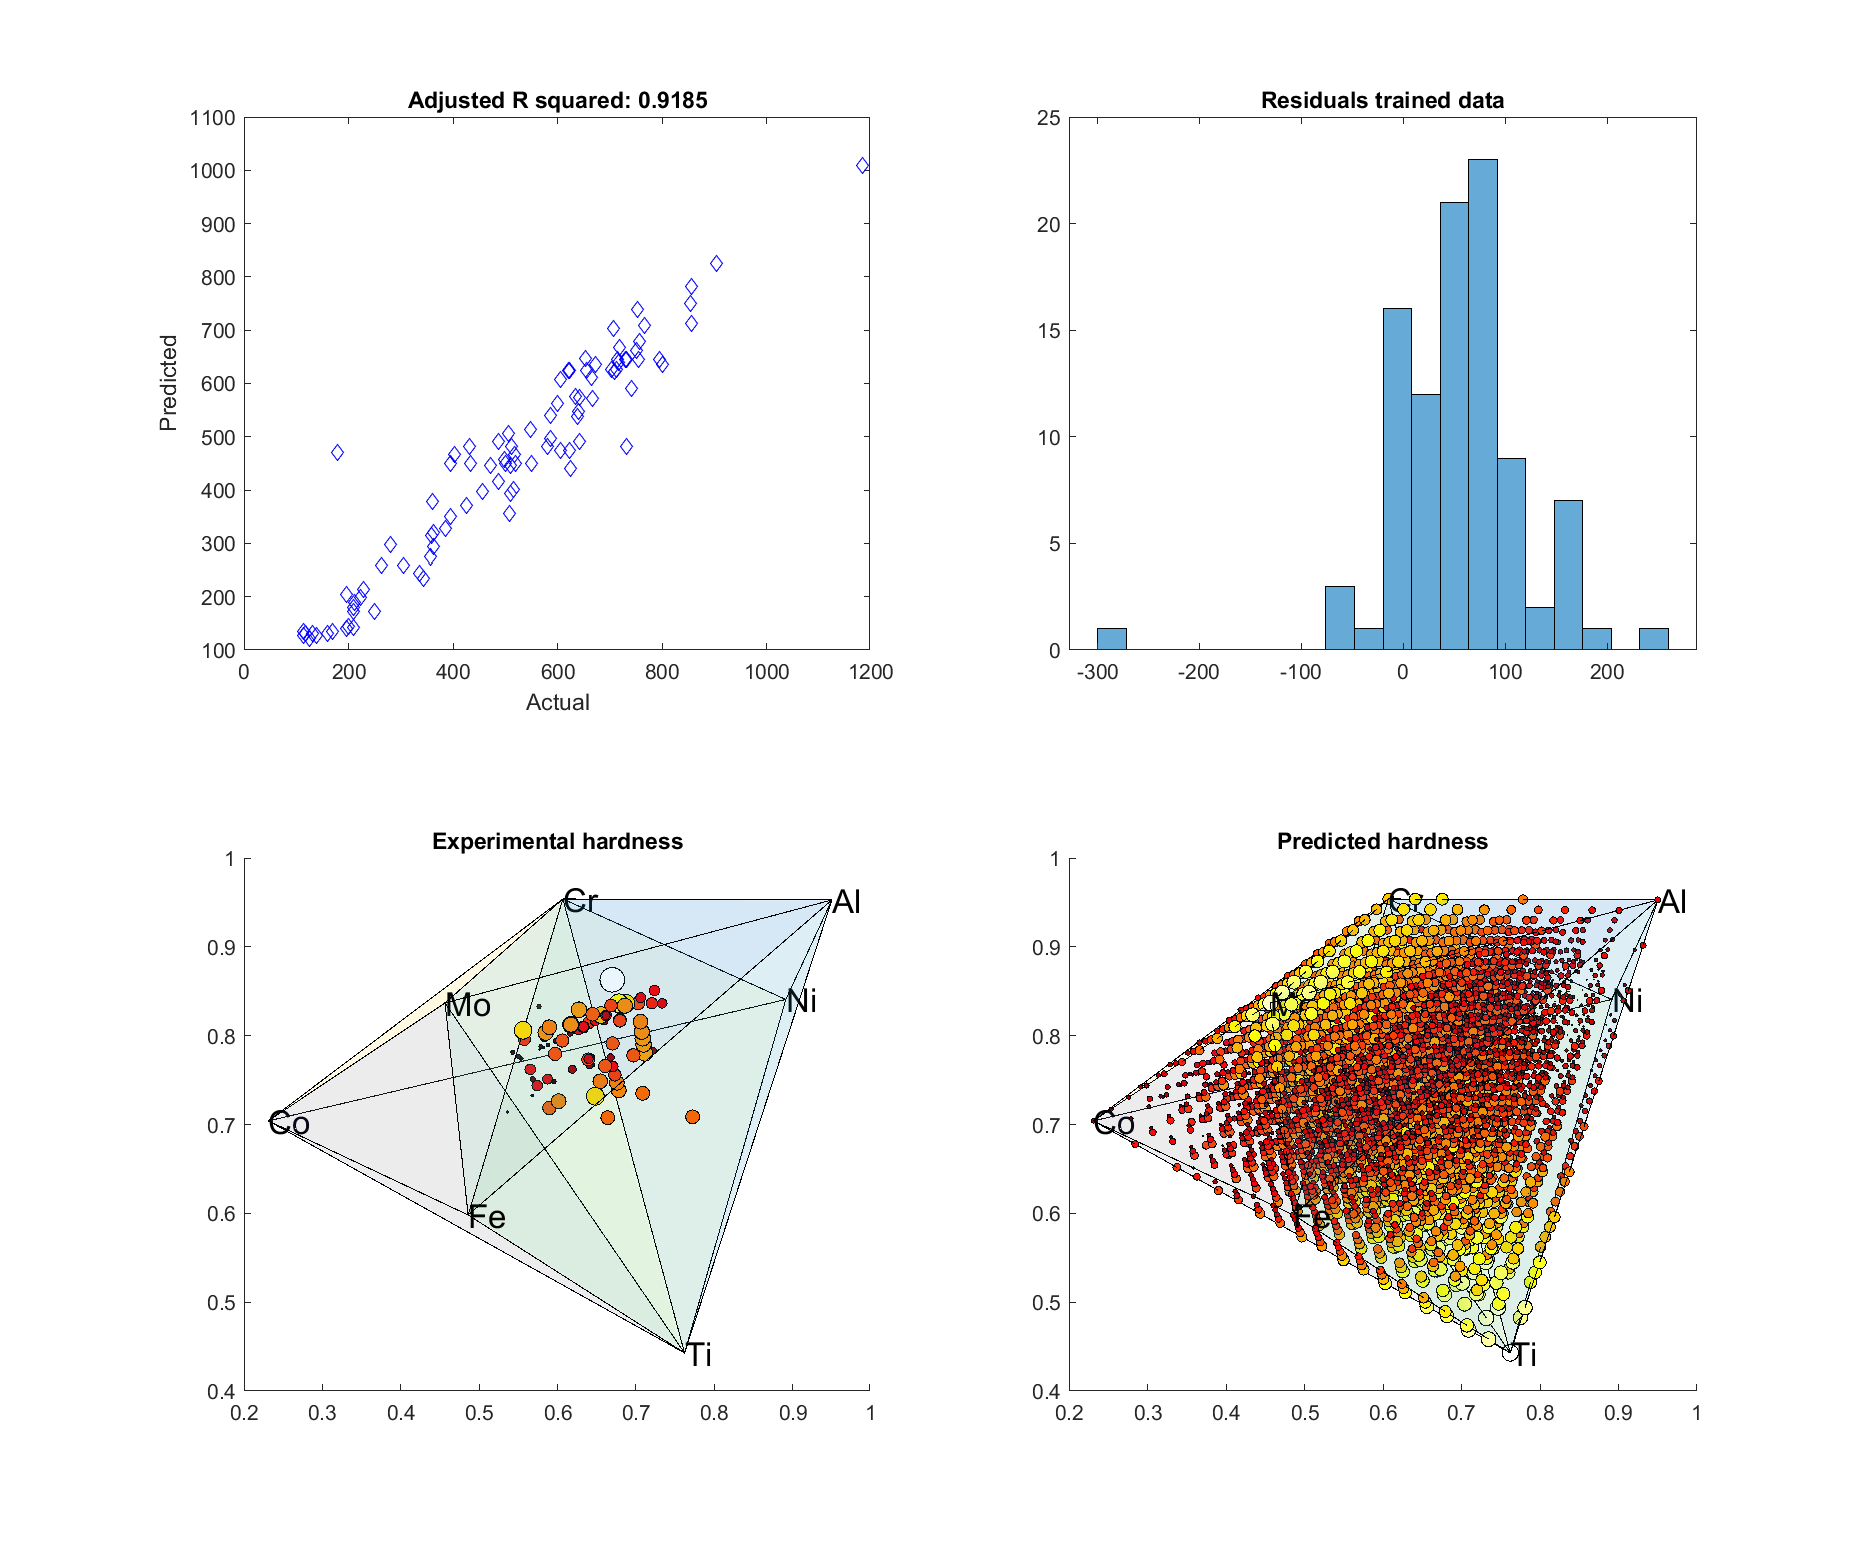
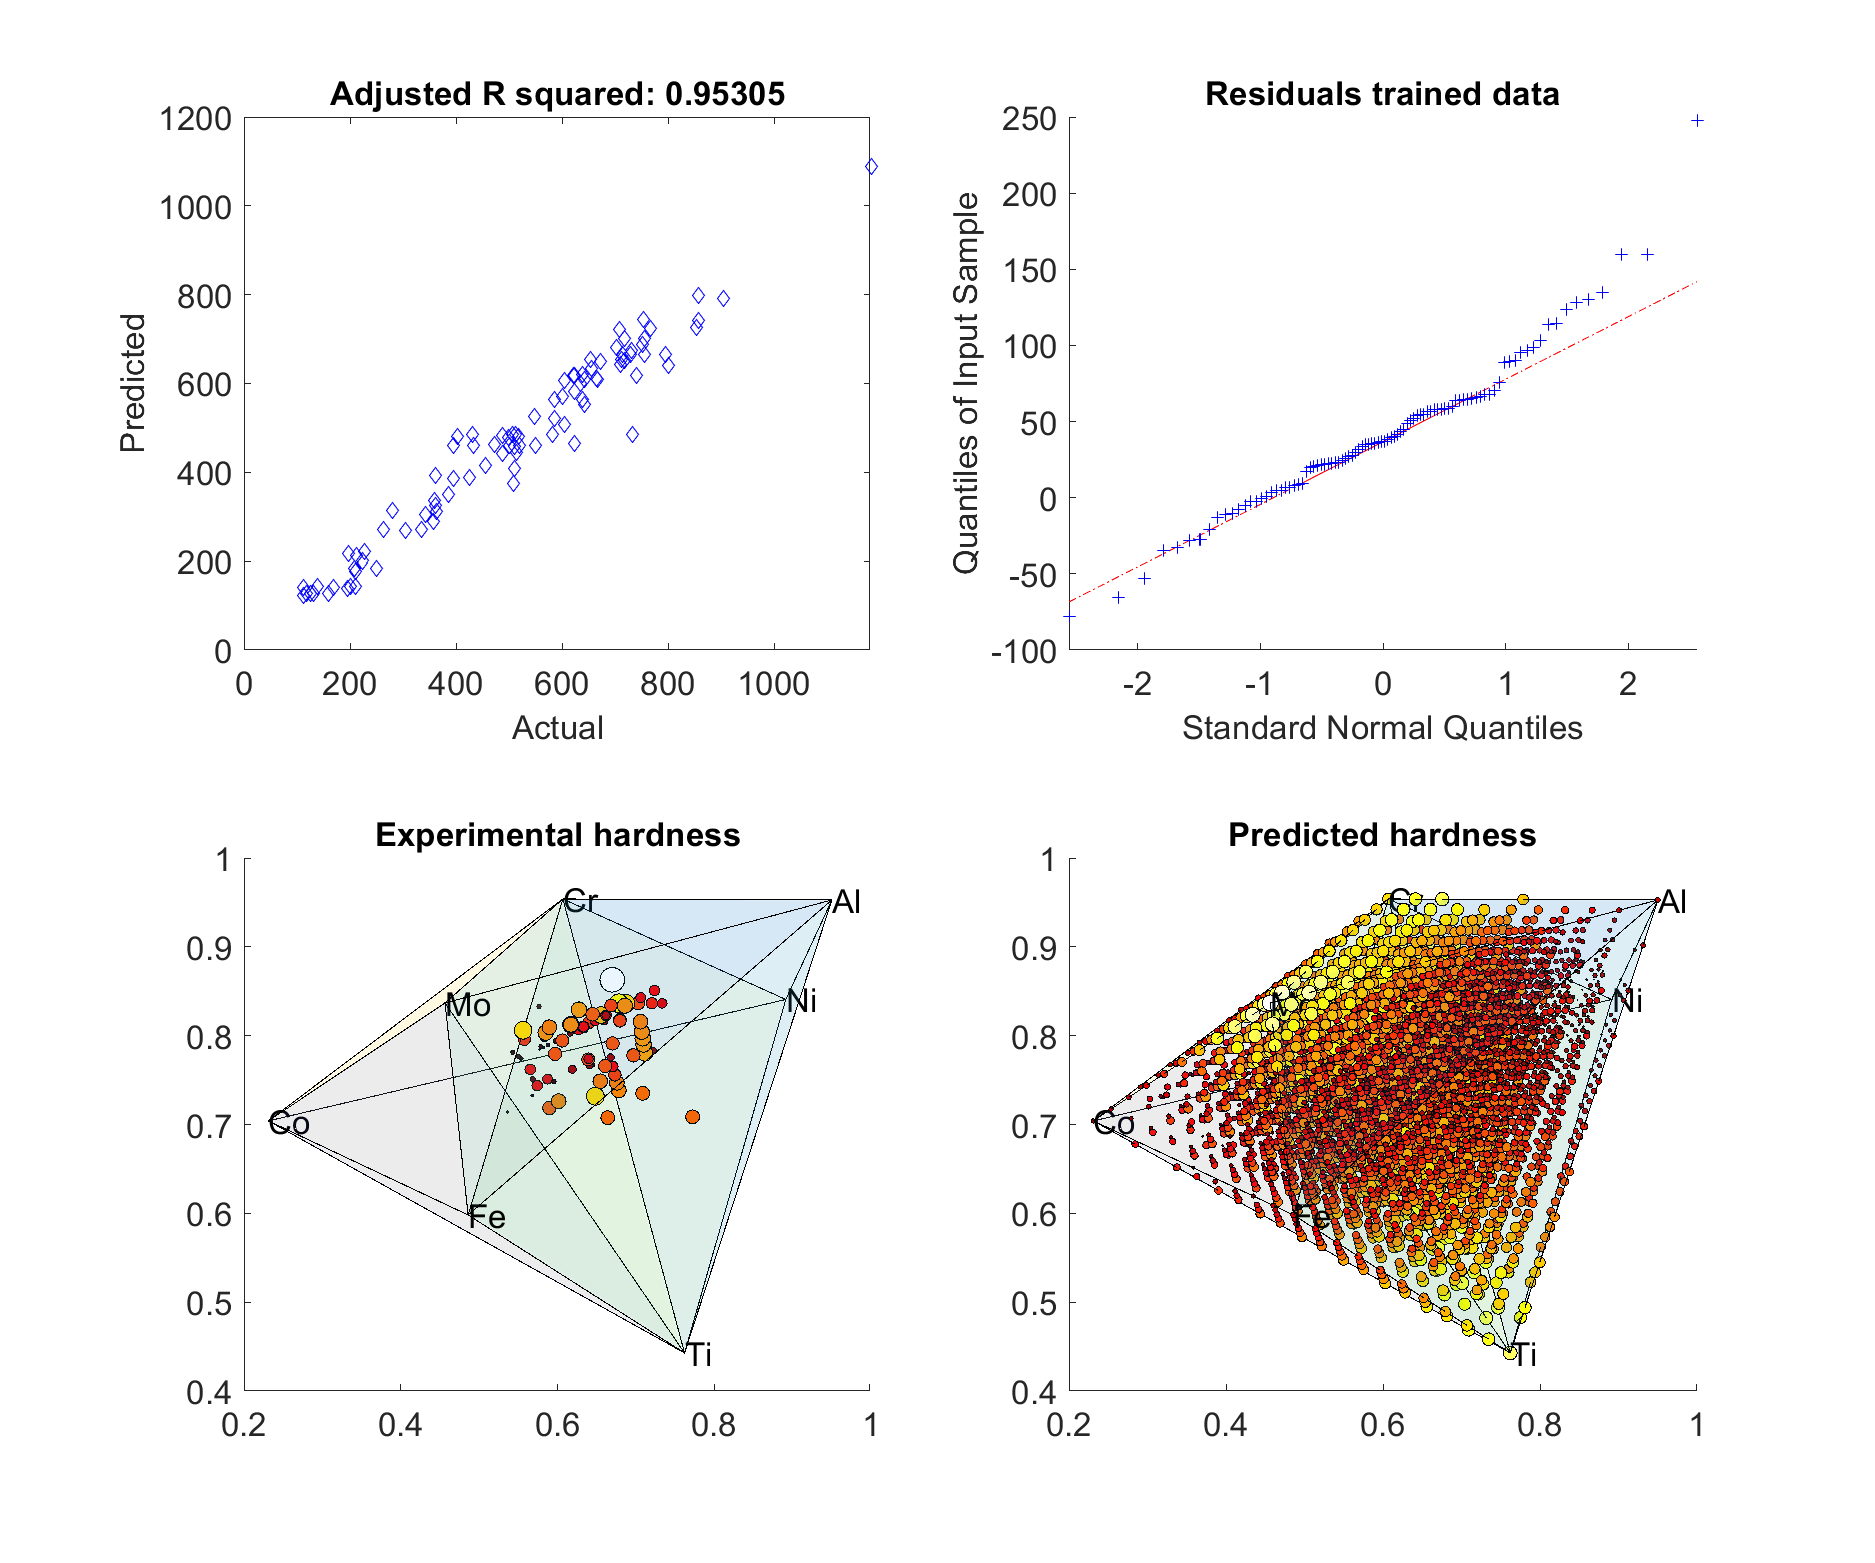
Add files via upload

diff --git a/Minimal_Neural_Network_Multinary.m b/Minimal_Neural_Network_Multinary.m
@@ -7,10 +7,10 @@ nb_elements=7;
 compo_variation=0.1; %for predicted data
 
 %% Options for training
-nbtraining = 50; %number of batches for training with k folding
+nbtraining = 10; %number of batches for training with k folding
 nbkfold = 16;    %number of k folding = number of processors used in parallel
-neurons_per_hidden_layer = 500;
-options.Epochs = 750;
+neurons_per_hidden_layer = 300; %the more the better but the higher the risk of overfitting, so the k-folding
+options.Epochs = 1000; %Epochs are enough when fitting does not depends on this variable anymore
 
 name_elements=["Al","Co","Cr","Fe","Ni","Ti","Mo"];
 name_elements_array = {'Al','Co','Cr','Fe','Ni','Ti','Mo'};
@@ -26,8 +26,8 @@ Training=data.HV;             %data to fit, this one is formatted differently in
 
 layers= [
     featureInputLayer(nb_elements); % number of descriptors
-    fullyConnectedLayer(neurons_per_hidden_layer)
-    reluLayer()
+    fullyConnectedLayer(neurons_per_hidden_layer) %can be different for each layers as well as the deepness
+    reluLayer() %looks like the best type of layer for this problem
     fullyConnectedLayer(neurons_per_hidden_layer)
     reluLayer()
     fullyConnectedLayer(neurons_per_hidden_layer)
@@ -42,18 +42,12 @@ options.Save_yytest = true;
 options.Seed = 123;
 rng(options.Seed);
 
-% options = trainingOptions('rmsprop', ...
-%     'MaxEpochs', options.Epochs, ...
-%     'Verbose', false,...
-%     'Plots', 'training-progress');
-
 options = trainingOptions('rmsprop', ...
     'MaxEpochs', options.Epochs, ...
-    'Verbose', false, 'ExecutionEnvironment','auto')
+    'Verbose', false, 'ExecutionEnvironment','auto');
 
 best_rmse = 1e9;
 best_adj = 0;
-best_net = [];
 history_RMSE=[];
 history_adjrsquare=[];
 best_net=[];
@@ -77,8 +71,8 @@ for i=1:1:nbtraining
         nets{fold} = current_net;% stores the networks in a cell
 
         %Testing the current network trained from k-folding with the data fullset
-        current_predictions = predict(current_net, Compo)
-        mdl = fitlm(current_predictions,Training);
+        current_predictions = predict(current_net, Compo) 
+        mdl = fitlm(current_predictions,Training); %it is possible to use a loss function too here
         sub_adjrsquare_kfold(fold,1)=mdl.Rsquared.Adjusted;
         sub_RMSE_kfold(fold,1)=rmse(current_predictions,Training);
     end
@@ -86,7 +80,8 @@ for i=1:1:nbtraining
     history_adjrsquare=[history_adjrsquare;sub_adjrsquare_kfold];
     figure(1)
     histogram(history_RMSE,20)
-    title('RMSE')
+    title('RMSE over batches')
+    fontsize(16,"points");
     drawnow
     for fold=1:1:nbkfold
         if sub_adjrsquare_kfold(fold) > best_adj
@@ -97,7 +92,7 @@ for i=1:1:nbtraining
             save('BestNN.mat','best_net','-mat');
         end
     end
-    disp(['Batch: ',num2str(i), ' minRMSE: ',num2str(min(history_RMSE)) ,' meanRMSE: ',num2str(mean(history_RMSE)) ,' stdRMSE: ',num2str(std(history_RMSE))])
+    disp(['Batch: ',num2str(i), '/',num2str(nbtraining), ' minRMSE: ',num2str(min(history_RMSE)) ,' meanRMSE: ',num2str(mean(history_RMSE)) ,' stdRMSE: ',num2str(std(history_RMSE))])
     %toc
 end
 
@@ -109,10 +104,12 @@ plot(Training,Predictions,'bd')
 title(['Adjusted R squared: ',num2str(mdl.Rsquared.Adjusted)])
 ylabel('Predicted')
 xlabel('Actual')
-subplot(2,2,2)
+fontsize(16,"points");
 
-histogram(Training-Predictions,20)
+subplot(2,2,2)
+qqplot(Training-Predictions)
 title('Residuals trained data')
+fontsize(16,"points");
 %%%%%%%%%%%%%%%%%%%%%%%%%%%%%%%%%%%%%%%%%%%%%%%%%%%%%%%%%%%%%%%%%%%%%%%%%%%%%%%%%%%%%
 x = gallery('uniformdata',[nb_elements 1],0);
 y = gallery('uniformdata',[nb_elements 1],1);
@@ -120,7 +117,6 @@ z = gallery('uniformdata',[nb_elements 1],2);
 DT = delaunayTriangulation(x,y,z);
 [T,Xb] = freeBoundary(DT);
 TR = triangulation(T,Xb);
-F = faceNormal(TR);
 coord_m=Compo*[x y z];
 color=hot;
 Output_scaled=(Training-min(Training))/(max(Training)-min(Training));
@@ -129,6 +125,7 @@ subplot(2,2,3)
 title('Experimental hardness')
 set(gca,'DefaultTextFontName','Helvetica','DefaultTextFontSize', 16)
 set(gca,'color','w')
+fontsize(16,"points");
 hold on
 tetramesh(DT,'FaceAlpha',0.05);
 text(TR.Points(:,1),TR.Points(:,2),TR.Points(:,3),name_elements)
@@ -158,8 +155,8 @@ for e1 =0:compo_variation:1
     end
 end
 disp('Calculating predicted data')
-predNN=predict(best_net, compo_predicted)
-
+predNN=predict(best_net, compo_predicted);
+predNN=max(0,predNN);% to remove if your predicted data are less than zero
 
 %%%%%%%%%%%%%%%%%%%%%%%%%%%%%%%%%%%%%%%%%%%%%%%%%%%%%%%%%%%%%%%%%%%%%%%%%%%%%%%%%%%%%
 x = gallery('uniformdata',[nb_elements 1],0);
@@ -177,6 +174,7 @@ subplot(2,2,4)
 title('Predicted hardness')
 set(gca,'DefaultTextFontName','Helvetica','DefaultTextFontSize', 16)
 set(gca,'color','w')
+fontsize(16,"points");
 hold on
 tetramesh(DT,'FaceAlpha',0.05);
 text(TR.Points(:,1),TR.Points(:,2),TR.Points(:,3),name_elements)
